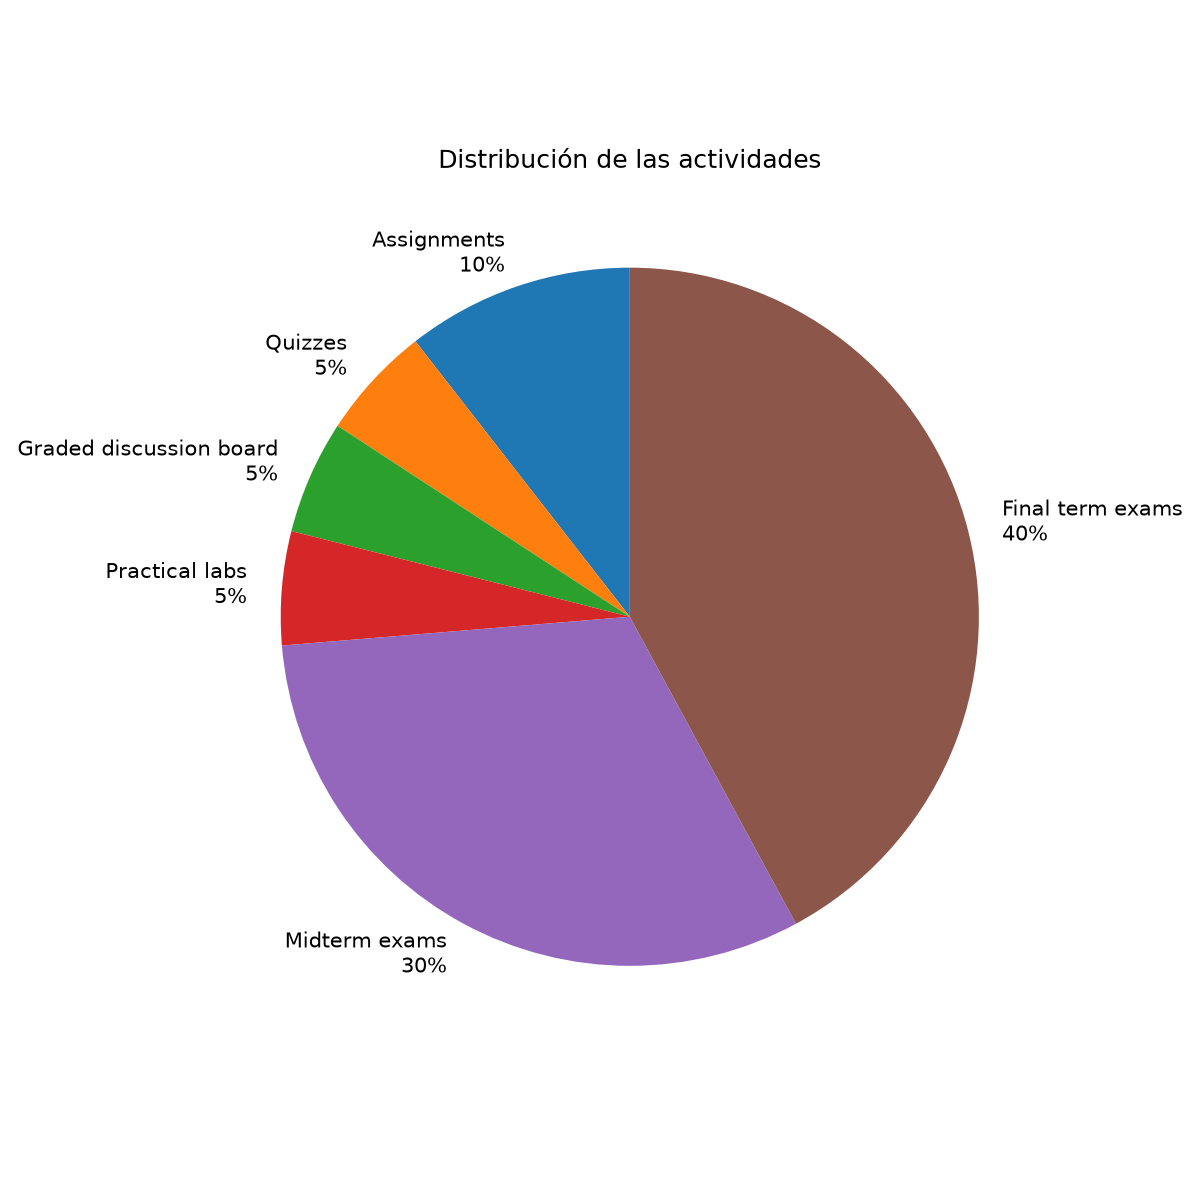
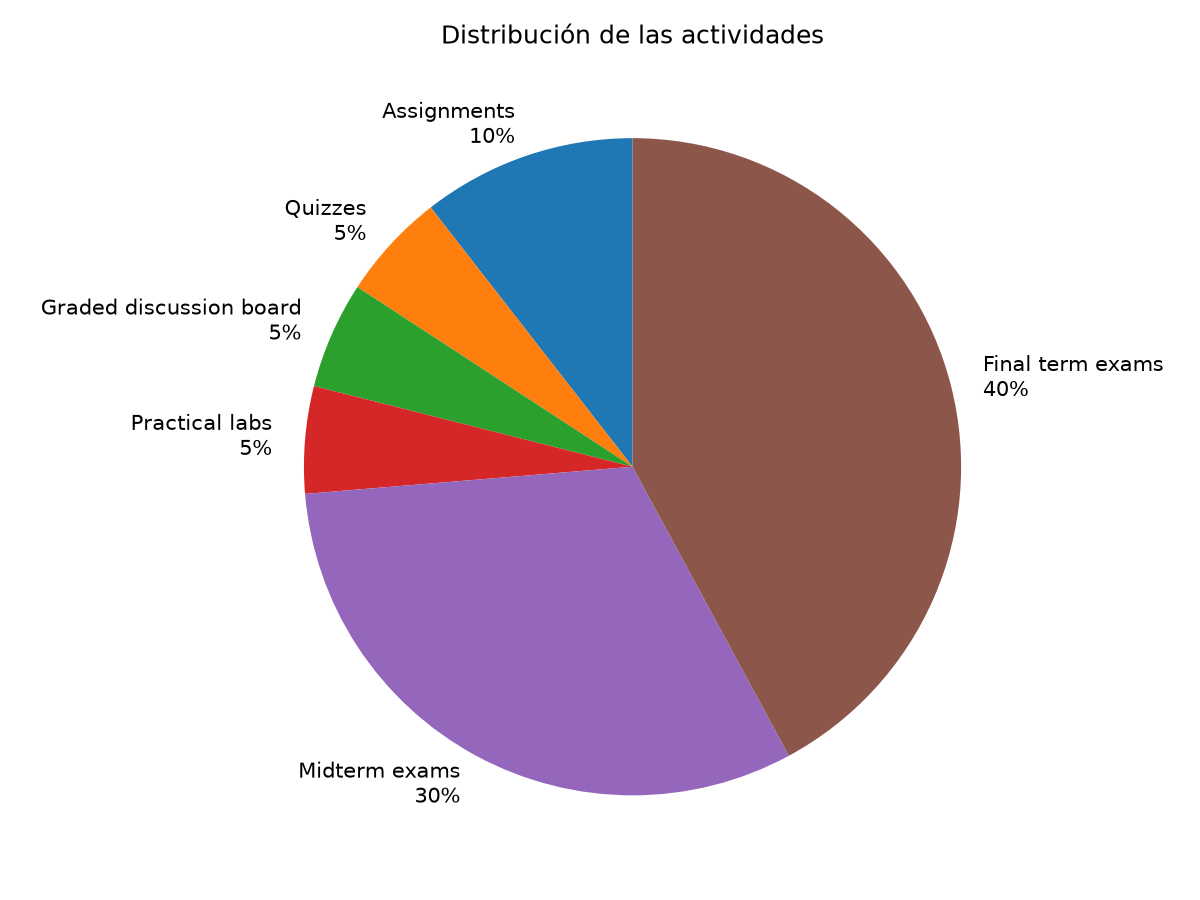
.

diff --git a/Ejercicios/Ejercicio_1_3.py b/Ejercicios/Ejercicio_1_3.py
@@ -21,7 +21,7 @@ etiquetas = [
     for actividad, porcentaje in datos_actividades.items()
 ]
 
-plt.figure(figsize=(8, 8))
+plt.figure(figsize=(8, 6))
 plt.pie(porcentajes, labels=etiquetas, startangle=90)
 plt.title('Distribución de las actividades')
 plt.tight_layout()
